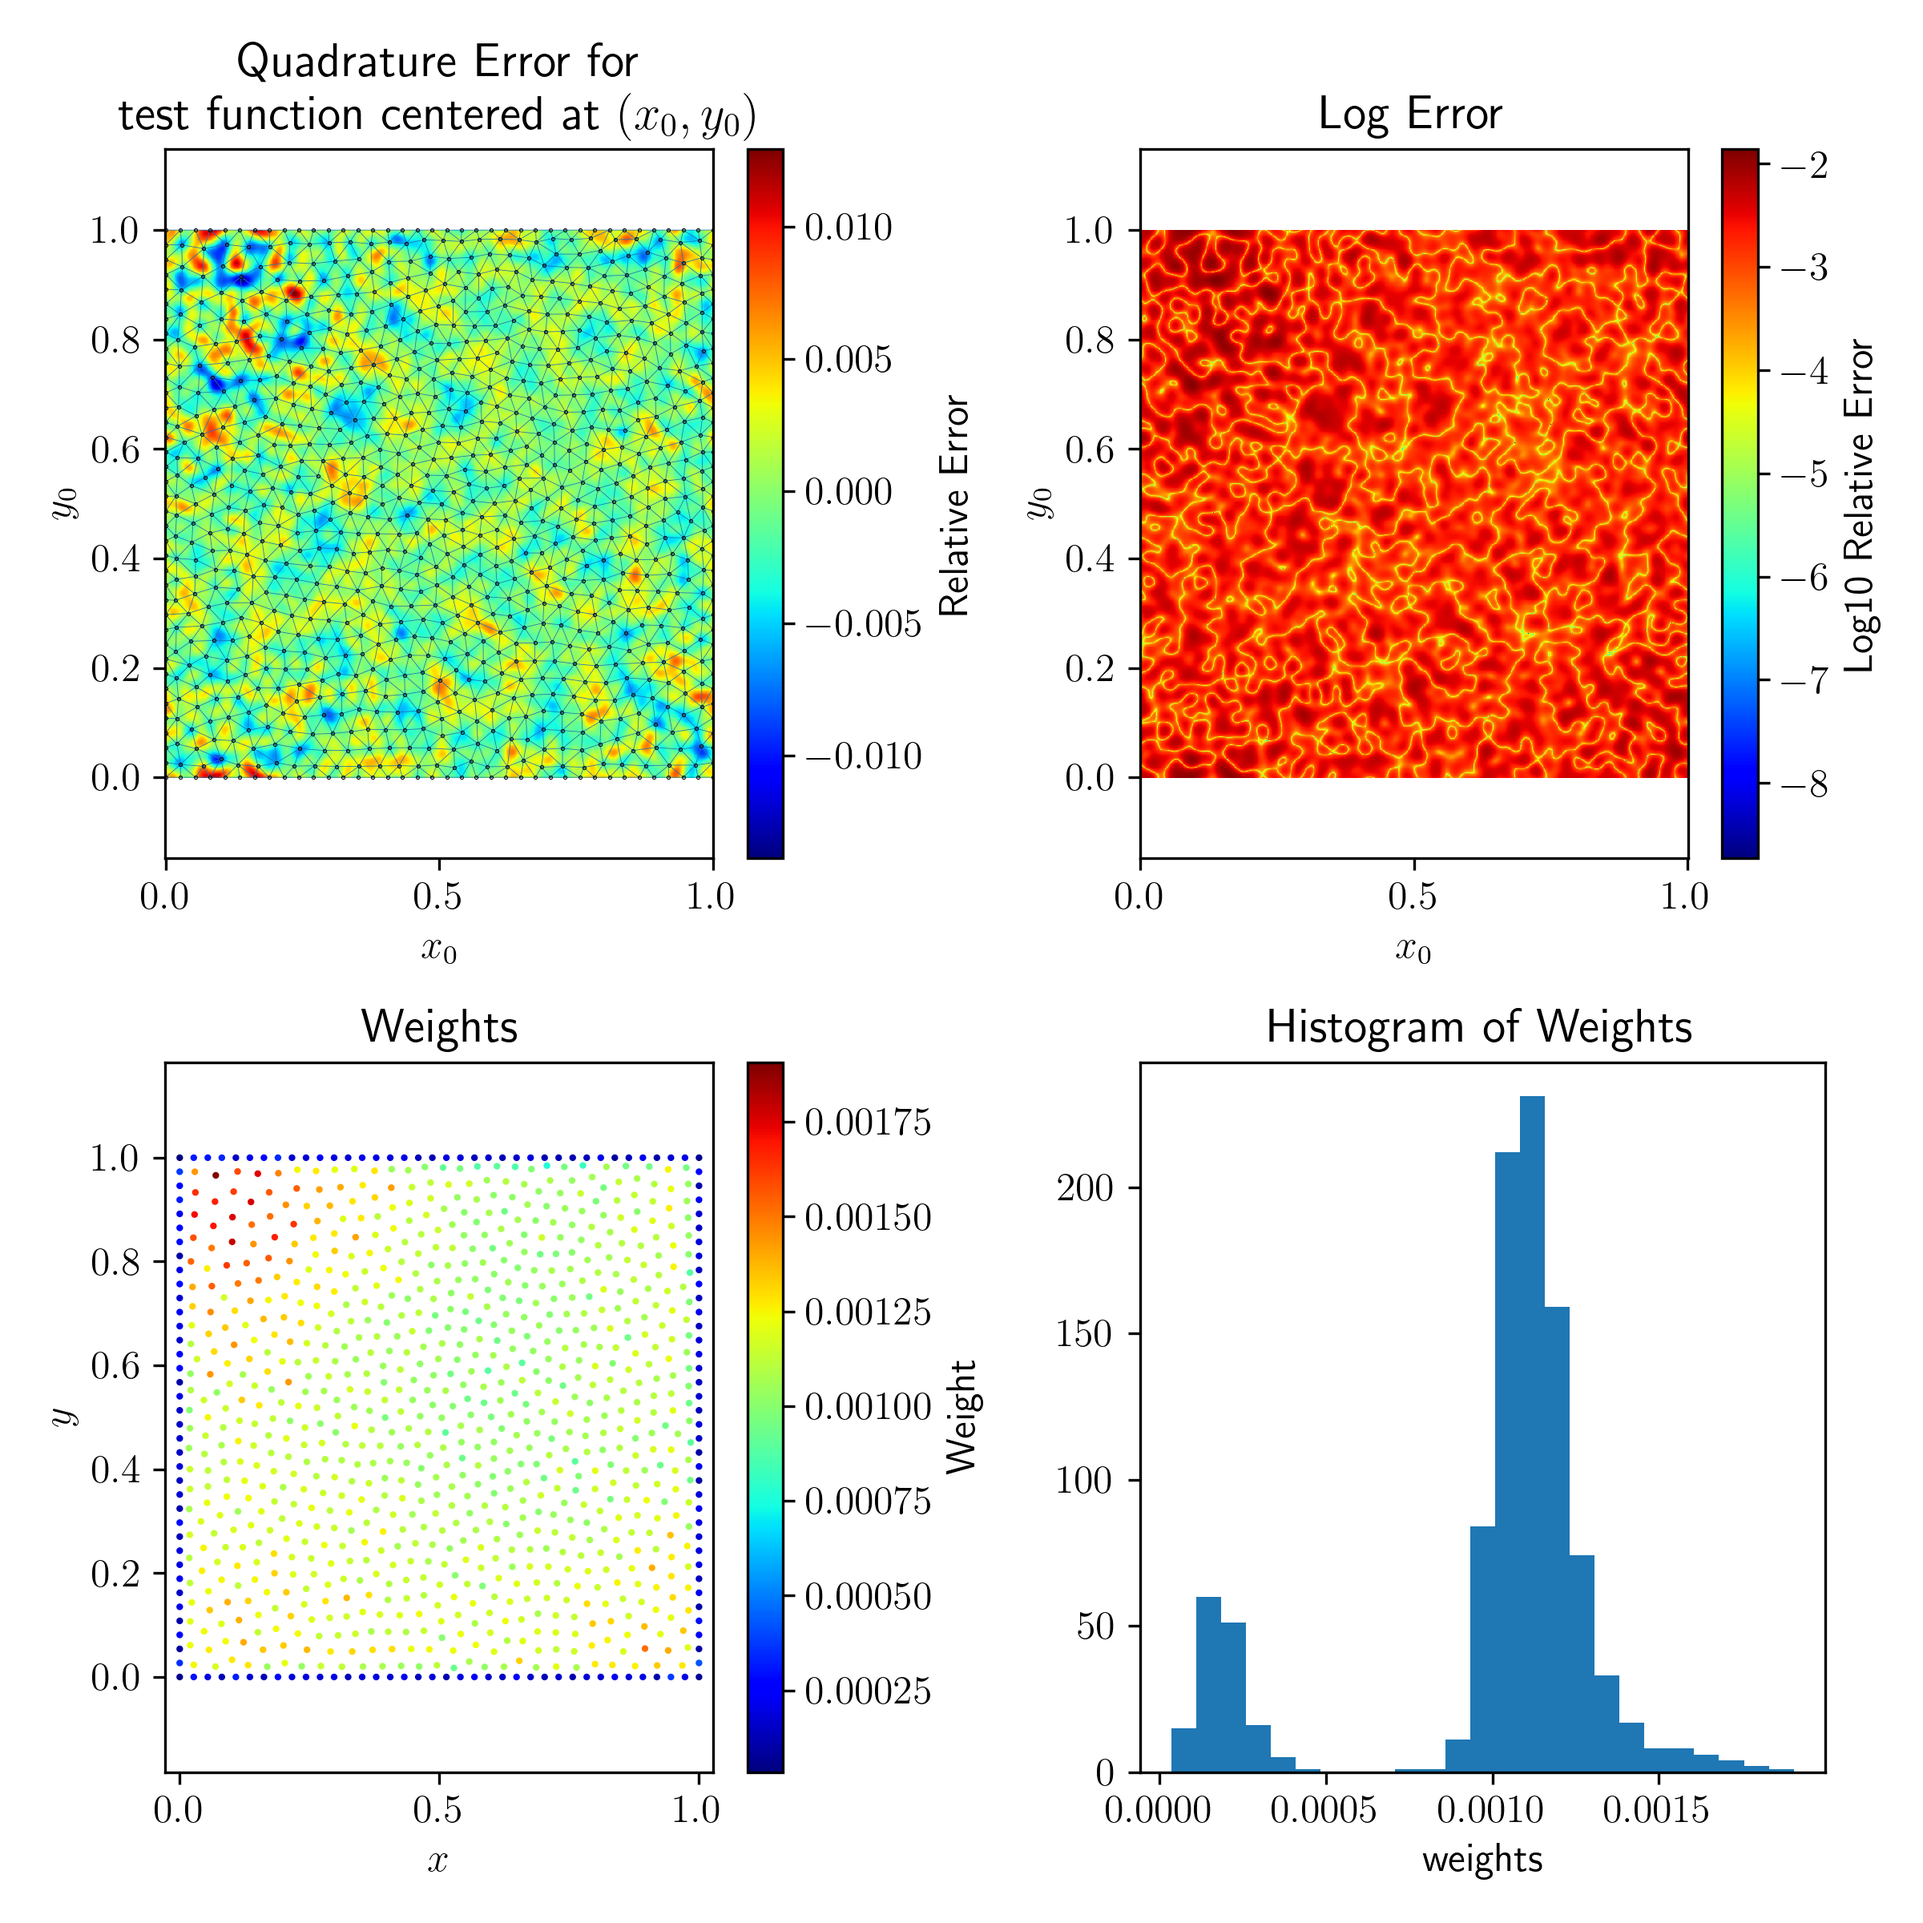
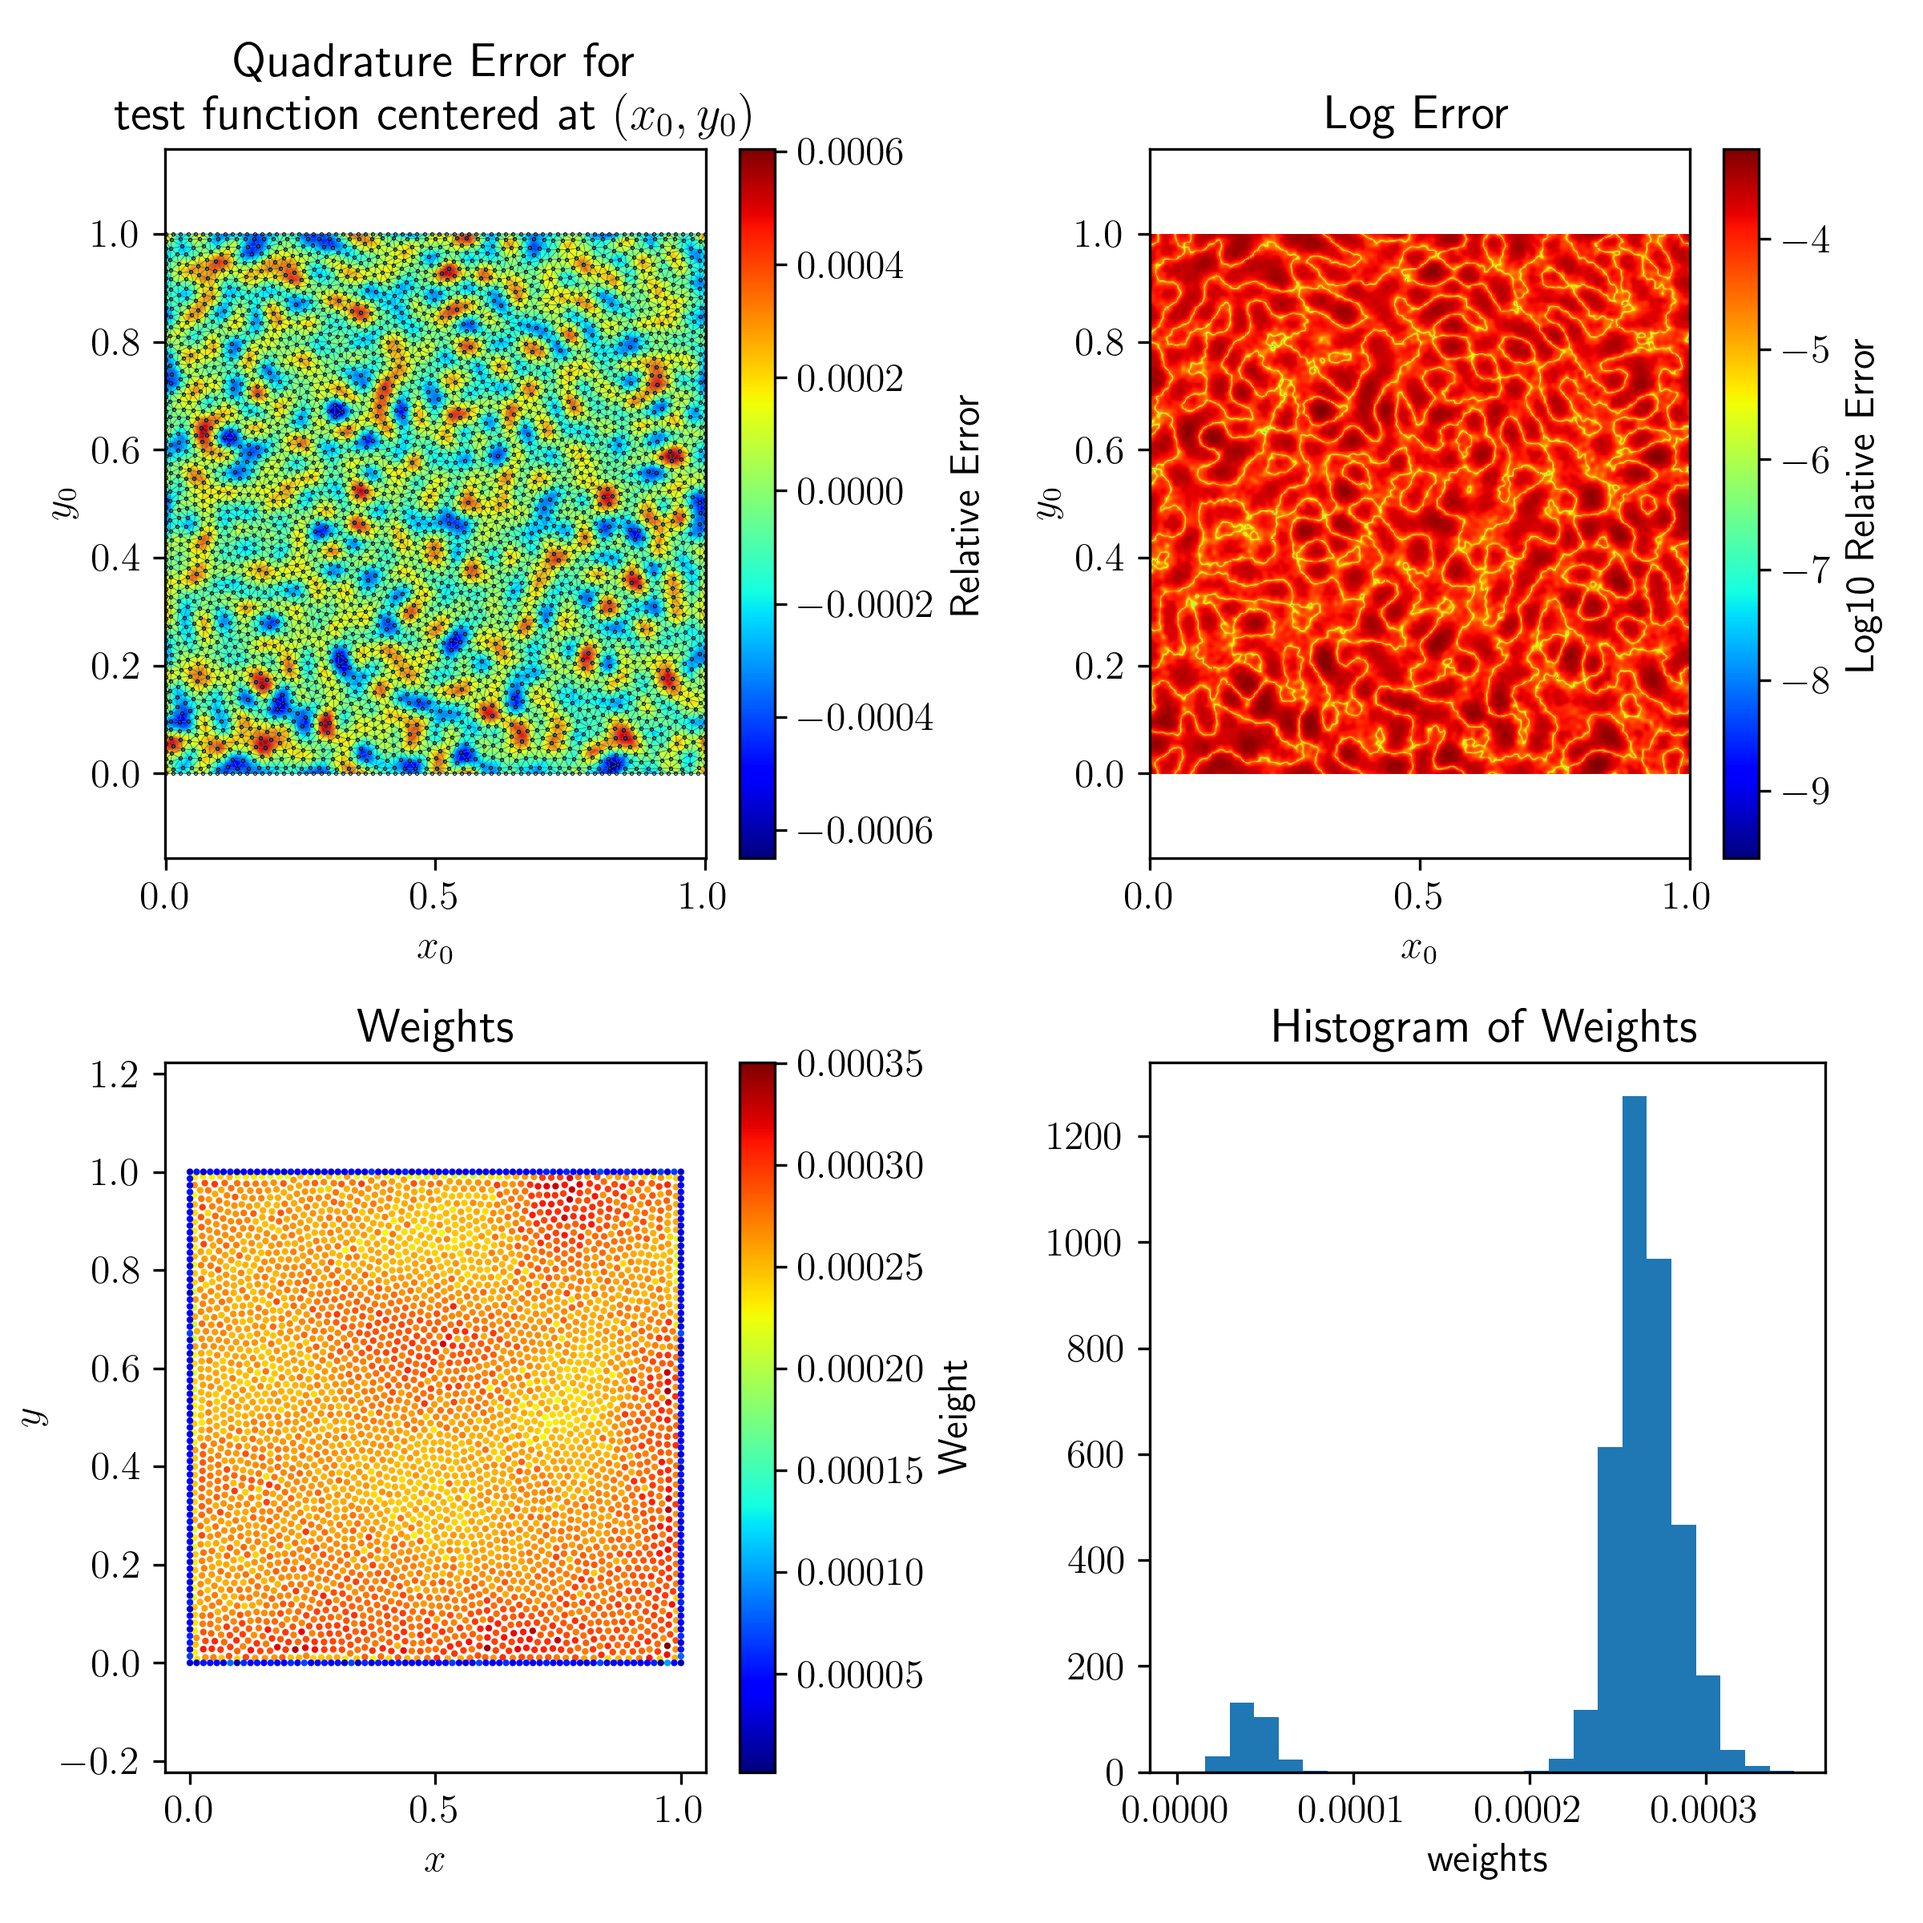
better hex grid

diff --git a/Simulations/drivers/quadrature_convergence/utils.py b/Simulations/drivers/quadrature_convergence/utils.py
@@ -1,3 +1,4 @@
+from math import ceil, sqrt
 import numpy as np
 from numpy.polynomial import Polynomial as nppoly
 import pickle
@@ -38,9 +39,7 @@ class HermiteBump:
         for p, c in enumerate(coeffs):
             poly += c * self.r ** (self.order + 1) * (self.r - 1) ** p
         self.poly_sym = poly.subs(self.r, self.r / self.radius)
-        self.poly_coeffs = [
-            float(c) for c in sym.Poly(self.poly_sym).all_coeffs()
-        ]
+        self.poly_coeffs = [float(c) for c in sym.Poly(self.poly_sym).all_coeffs()]
         self.poly_full = nppoly(self.poly_coeffs[::-1])
 
     def profile(self, rs: np.ndarray[float]):
@@ -99,20 +98,58 @@ def cartesian_grid(n: int):
     return points
 
 
-def hex_grid(n: int):
-    """Return a hexagonal grid with approximately n points."""
-    n_x = int(np.ceil(np.sqrt(n / np.sqrt(3))))
-    n_y = int(np.ceil(n_x * np.sqrt(3) / 2))
-    h_x = 1 / (n_x - 1) / 2
-    h_y = 1 / (n_y - 1) / 2
-    X, Y = np.meshgrid(np.linspace(0, 1, n_x), np.linspace(0, 1, n_y))
-    X_inner, Y_inner = np.meshgrid(
-        np.linspace(h_x, 1 - h_x, n_x - 1), np.linspace(h_y, 1 - h_y, n_y - 1)
-    )
-    X = np.append(X, X_inner)
-    Y = np.append(Y, Y_inner)
-    points = np.array([X.flatten(), Y.flatten()]).T
+def hex_grid(N: int):
+    N_inner_approx = N - int(ceil(sqrt(N) * sqrt(3))) * 4
+    A, B, C = 2 * sqrt(3), -(1 + sqrt(3)), 1 - N_inner_approx
+    ny_approx = (-B + sqrt(B**2 - 4 * A * C)) / (2 * A)
+    ny = int(ceil(ny_approx))
+    nx = int(ceil(sqrt(3) * ny_approx))
+    X, Y = np.meshgrid(np.arange(0, nx, 1), np.arange(0, ny) * np.sqrt(3))
+    h = 1 / max(np.max(X), np.max(Y))
+    X2 = X[:-1, :-1] + 0.5
+    Y2 = Y[:-1, :-1] + np.sqrt(3) / 2
+    inner_points = np.array(
+        [[*X.flatten(), *X2.flatten()], [*Y.flatten(), *Y2.flatten()]]
+    ).T
+    inner_points *= h * (1 - h)
+    inner_points[:, 0] += (1 - np.max(inner_points[:, 0])) / 2
+    inner_points[:, 1] += (1 - np.max(inner_points[:, 1])) / 2
+    N_inner = len(inner_points)
+    n_side = ceil((N - N_inner) / 4)
+    N = 4 * n_side + N_inner
+
+    points = np.zeros((N, 2))
+    side = np.linspace(0, 1, n_side, endpoint=False)
+    # bottom
+    points[:n_side, 0] = side
+    # right
+    points[n_side : 2 * n_side, 0] = 1
+    points[n_side : 2 * n_side, 1] = side
+    # top
+    points[2 * n_side : 3 * n_side, 0] = 1 - side
+    points[2 * n_side : 3 * n_side, 1] = 1
+    # left
+    points[3 * n_side : 4 * n_side, 1] = 1 - side
+
+    points[4 * n_side :] = inner_points
+
     return points
+
+
+# def hex_grid(n: int):
+#     """Return a hexagonal grid with approximately n points."""
+#     n_x = int(np.ceil(np.sqrt(n / np.sqrt(3))))
+#     n_y = int(np.ceil(n_x * np.sqrt(3) / 2))
+#     h_x = 1 / (n_x - 1) / 2
+#     h_y = 1 / (n_y - 1) / 2
+#     X, Y = np.meshgrid(np.linspace(0, 1, n_x), np.linspace(0, 1, n_y))
+#     X_inner, Y_inner = np.meshgrid(
+#         np.linspace(h_x, 1 - h_x, n_x - 1), np.linspace(h_y, 1 - h_y, n_y - 1)
+#     )
+#     X = np.append(X, X_inner)
+#     Y = np.append(Y, Y_inner)
+#     points = np.array([X.flatten(), Y.flatten()]).T
+#     return points
 
 
 def random_points(n: int, verbose=False):
@@ -174,3 +211,8 @@ if __name__ == "__main__":
         plt.plot(rs, foo.profile(rs), label=f"deg={foo.deg}")
     plt.legend()
     plt.ylim(-0.1, 1.1)
+
+    points = better_hex(4_000)
+    plt.plot(*points.T, "k.")
+    plt.axis("equal")
+    print(np.max(points, axis=0))

diff --git a/Simulations/drivers/quadrature_convergence/mesh_test.py b/Simulations/drivers/quadrature_convergence/mesh_test.py
@@ -14,19 +14,19 @@ FILE_PREFIX = "media/"
 
 rbf = PHS(3)
 poly_deg = 3
-stencil_size = 19
-n = 1_000
+stencil_size = 21
+n = 4_000
 
 sample_density = 801
 
 # points
-# points, point_set = random_points(n, verbose=True), "random"
+points, point_set = random_points(n, verbose=True), "random"
 # points, point_set = cartesian_grid(n), "cartesian"
-points, point_set = hex_grid(n), "hex"
+# points, point_set = hex_grid(n), "hex"
 
 # test function
 radius = 0.1
-# bump, test_func = Gaussian(radius / 2), "gauss"
+bump, test_func = Gaussian(radius / 2), "gauss"
 bump, test_func = HermiteBump(order=3, radius=radius), "hermite"
 
 plt.rcParams.update(

diff --git a/Simulations/drivers/quadrature_convergence/grid_stencil_sizes.py b/Simulations/drivers/quadrature_convergence/grid_stencil_sizes.py
@@ -38,7 +38,9 @@ HEX_FILE = "data/hex_stencil_sizes.pickle"
 w = sym.cos(sym.pi / 3) + sym.I * sym.sin(sym.pi / 3)
 
 stencil = [(1 * w**i).expand() for i in range(6)]
-points = [0 + 0 * sym.I]
+points = [0 + 0 * sym.I, 1 + 0*sym.I, w]
+center = sum(points) / len(points)
+points = [p - center for p in points]
 for _ in range(ceil(2 / sqrt(3) * N)):
     new_points = []
     for p in points:
@@ -57,6 +59,7 @@ ys = [float(sym.im(p)) for p in points]
 
 plt.figure("hex")
 plt.plot(xs, ys, "k.")
+plt.plot(0, 0, "g*")
 ts = np.linspace(-np.pi, np.pi, 501)
 for r in map(float, dists_unique):
     xs = r * np.cos(ts)
